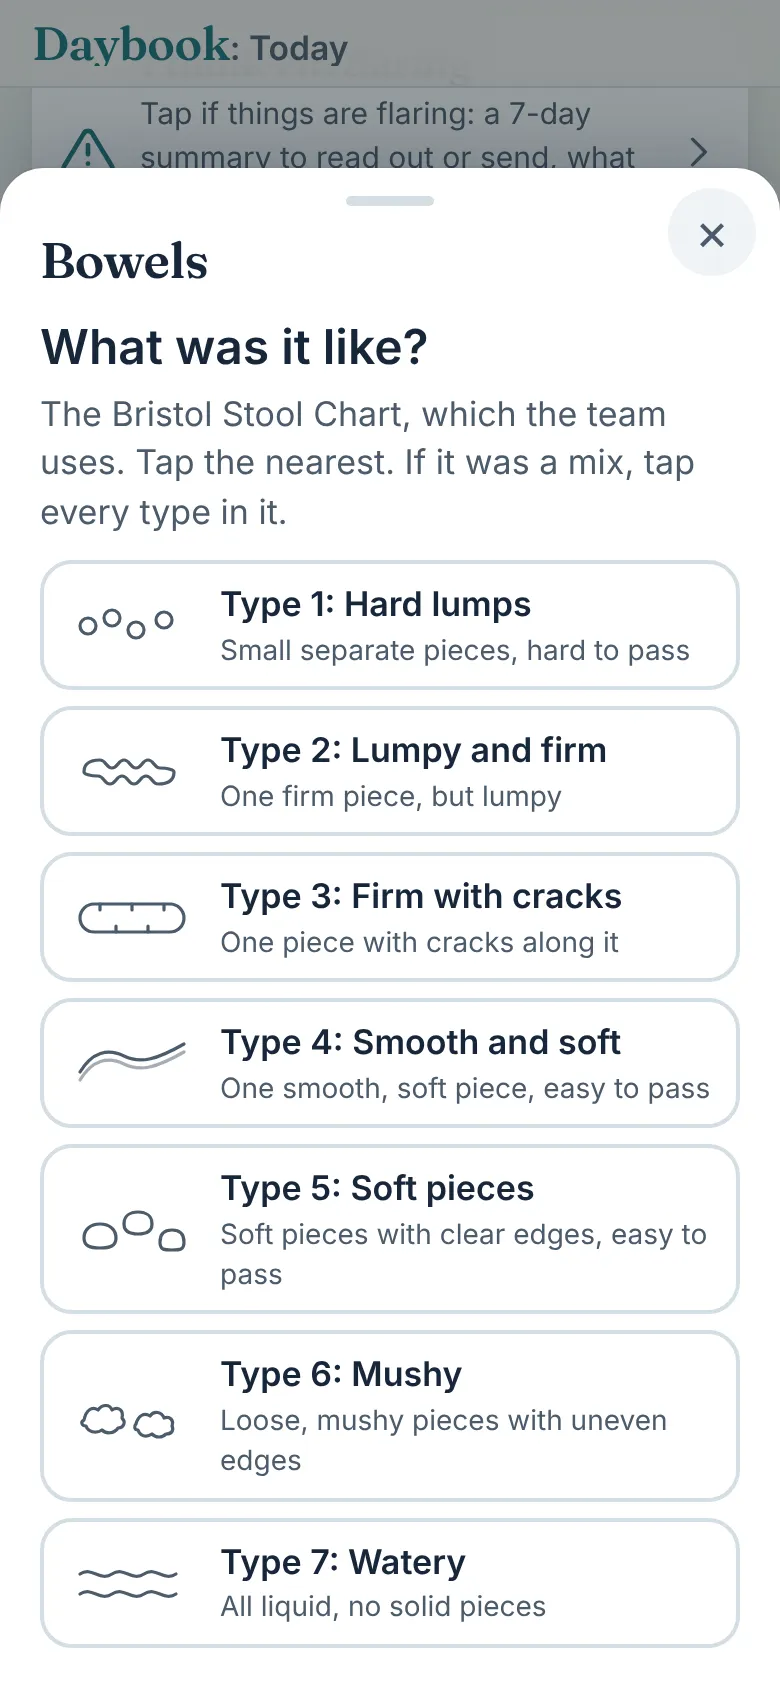
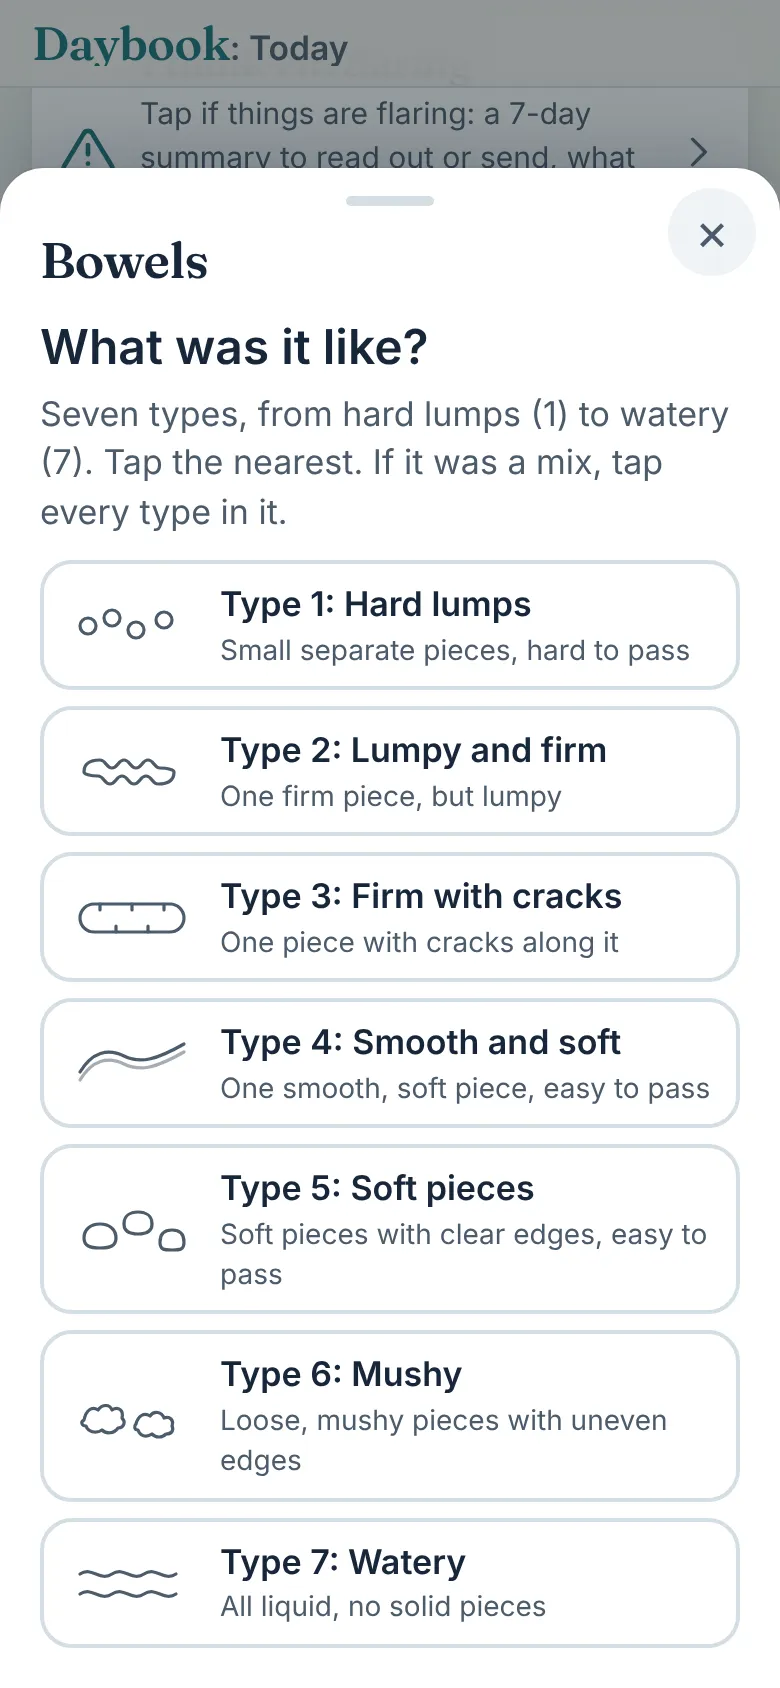
v310: no mention of the Bristol Stool Chart in the app's words; Guide frame retaken
Claude-Session: https://claude.ai/code/session_019VY17MM1Pv81B6vJUTKu9b

Changed region(s): [[0.0615, 0.2156, 0.8923, 0.3081]]

diff --git a/scripts.js b/scripts.js
@@ -13,7 +13,7 @@ import {
   query, where, orderBy, limit, onSnapshot, serverTimestamp, Timestamp, writeBatch, deleteField, runTransaction
 } from 'https://www.gstatic.com/firebasejs/10.12.2/firebase-firestore.js';
 
-const APP_VERSION = '309';
+const APP_VERSION = '310';
 /* The stage of the app (v132): 'Beta' until it is on the App Store and Google Play, then ''. Shown as a small pill on the
    opener and the four cover screens (never in the topbar, where it squeezed "Daybook: Treatment plan" off the end at 390px),
    after the version everywhere the version shows, and as one line on the App card and About
@@ -4393,8 +4393,8 @@ function openAdd(type, editEntry, preset) {
       output.node);
     else body.append(
       h('p', { class: 'wiz-q', text: 'What was it like?' }),
-      h('p', { class: 'wiz-hint', text: 'The Bristol Stool Chart, which the team uses. Tap the nearest. If it was a mix, tap every type in it.' }),
-      h('div', { class: 'bristol', role: 'group', 'aria-label': 'Bristol stool type, tap every type in it' }, ...rows));
+      h('p', { class: 'wiz-hint', text: 'Seven types, from hard lumps (1) to watery (7). Tap the nearest. If it was a mix, tap every type in it.' }),
+      h('div', { class: 'bristol', role: 'group', 'aria-label': 'Stool type, 1 to 7, tap every type in it' }, ...rows));
     if (ibd) body.append(
       h('p', { class: 'wiz-q', text: 'Any blood?' }), bloodPick.node,
       stoma ? '' : h('p', { class: 'wiz-q', text: 'How long could you wait?' }), stoma ? '' : urgePick.node);

diff --git a/index.html b/index.html
@@ -17,7 +17,7 @@
   <link rel="preconnect" href="https://fonts.googleapis.com">
   <link rel="preconnect" href="https://fonts.gstatic.com" crossorigin>
   <link href="https://fonts.googleapis.com/css2?family=Fraunces:opsz,wght@9..144,500;9..144,600;9..144,700&family=Inter:wght@400;500;600;700&display=swap" rel="stylesheet">
-  <link rel="stylesheet" href="styles.css?v=309">
+  <link rel="stylesheet" href="styles.css?v=310">
 </head>
 <body>
   <a class="skip-link" href="#main">Skip to content</a>
@@ -455,7 +455,7 @@
         <div class="card chart-card">
           <h2 class="section-title">Bowel movements per day</h2>
           <div class="chart-wrap"><canvas id="chart-bowel"></canvas></div>
-          <p class="legend-note">Teal is types 1 to 5 on the Bristol chart, warm is loose (type 6 or 7). A day marked "none" shows as empty.</p>
+          <p class="legend-note">Teal is types 1 to 5, warm is loose (type 6 or 7). A day marked "none" shows as empty.</p>
         </div>
       </section>
 
@@ -1220,6 +1220,6 @@
   </div>
 
   <script src="config.js"></script>
-  <script type="module" src="scripts.js?v=309"></script>
+  <script type="module" src="scripts.js?v=310"></script>
 </body>
 </html>

diff --git a/tools/guide_shots.js b/tools/guide_shots.js
@@ -290,7 +290,7 @@ const QUALITY = 0.8;
   await closeSheet();
   await shot('Bowels logs each movement in a few taps.', '.qa[data-add="bowel"]');
   await page.click('.qa[data-add="bowel"]'); await page.waitForSelector('#sheet:not([hidden])'); await settle();
-  await shot('The Bristol chart as seven rows, then any blood and how long you could wait. Tap every type in a mixed one.');
+  await shot('The seven stool types as rows, hard to watery, then any blood and how long you could wait. Tap every type in a mixed one.');
   await closeSheet();
   /* fasting today, in the morning check-in (v258): on a day with no check-in yet, skipped through to the question */
   await page.evaluate(() => { for (let i = 0; i < 20; i++) document.getElementById('day-prev').click(); }); await settle(400);

diff --git a/CLAUDE.md b/CLAUDE.md
@@ -26,6 +26,9 @@ When Mark asks for a change that could be read more than one way, or that would 
 ## Licence
 `LICENSE` (since v68): **copyright Mark 1 Apps Ltd** since v151 (company number 17510025, registered in England and Wales, 9 October 2026; Shelley and Mark directors). Mark Brown created Daybook and assigned the code, the names, the artwork, the domains and the Mark 1 Apps name and mark to the company by a Deed of Assignment dated 10 October 2026, signed by Mark, by Shelley for the company and before an independent witness, after a written resolution of both shareholders approving it; the originals are kept with the company papers, never in the repo. The LICENSE, README, the terms' copyright paragraph (dated 10 October 2026), About's licence line, the opener and the Settings card all read "Copyright 2026 Mark 1 Apps Ltd"; About still says Daybook was made by Mark Brown, which the deed allows (clause 4). The code is published to be read (the repository has to be public for GitHub Pages, and a web app hands its code to every browser anyway), not copied, hosted or built on; the name, strapline, artwork and the Mark 1 Apps mark are reserved too. Third-party parts keep their own licences (CoFID under the Open Government Licence, the CDN libraries and the fonts under theirs). The notice also appears on the Settings App card, in `README.md` and in the pitch footer. Copyright is automatic; the file removes the "I assumed it was open source" excuse. The LICENSE names "My Medical Daybook (Daybook)". A trade mark application for the full name is a roadmap item for when the app goes to the stores; a descriptive phrase like this is hard to register and hard for anyone else to register, which is part of why it was chosen.
 
+## No "Bristol" in the app's words (v310, 25 October 2026)
+Mark: "It still says we are using the Bristol stool chart." v286 rewrote the seven descriptions in our own words but three places still named the chart: the Bowels sheet's hint (now "Seven types, from hard lumps (1) to watery (7). Tap the nearest. If it was a mix, tap every type in it."), the rows' spoken label ("Stool type, 1 to 7, tap every type in it") and the Trends bowel chart's note ("Teal is types 1 to 5, warm is loose (type 6 or 7)."). The Guide's Crohn's caption reads "The seven stool types as rows, hard to watery, ..." and its frame (ibd-4) was retaken and copied to the website. **Never name the Bristol Stool Chart in anything a person reads**; code identifiers (`BRISTOL`, `bristol`, `bristolName()`) and comments keep the name.
+
 ## The highs and lows capped at the most extreme on the report (v309, 24 October 2026)
 Mark: the report is mostly weekly, a third page is fine for a longer one, and "most extreme". `buildMoodReport()` keeps every moment for the screen (`momentsAll`) and puts at most the five lowest (lowest score first, then the most recent) and the five highest (`MOMENTS_EACH`) on the report (`moments`), in time order; when some are left out the heading's note reads "The five lowest and five highest moods with words beside them. N more are on the Mood screen in Daybook." (`momentsLeft`). The plain quotes leave out only the words already printed in the section. A week rarely has more than ten, so a weekly report is unchanged. Tested in the scratchpad's `h/t32.cjs` (fourteen moments: all fourteen on the screen, ten on the report being 1, 2, 2, 3, 3 and 10, 10, 9, 9, 8, in time order, the note, nothing overflowing, 390 light and 320 dark, no page errors), `h/t31`, `h/t6` and `h/t3`.
 
